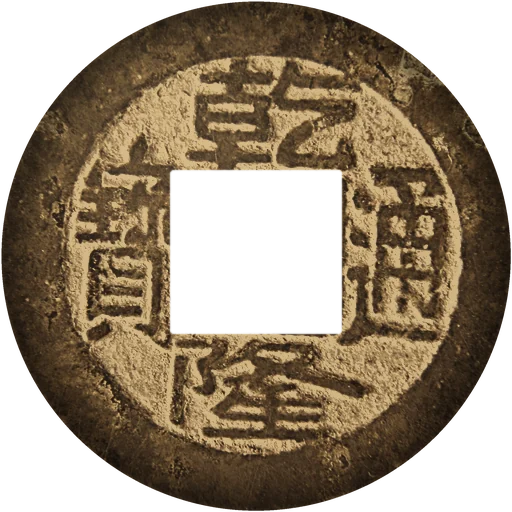
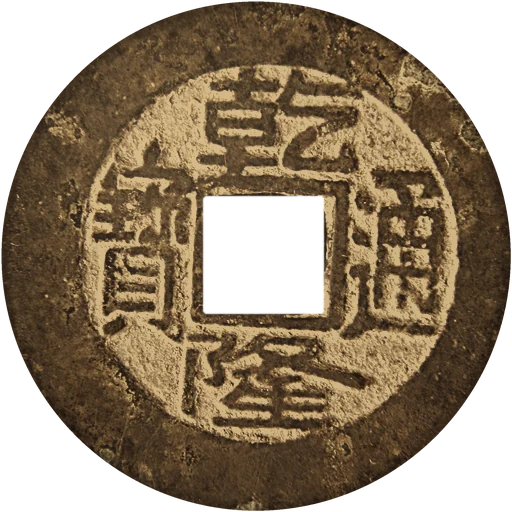
铜钱外轮廓全分辨率拟合，方孔透出桌面
- refine_outer：360 条射线找布→钱跳变点，最小二乘拟合圆心，半径取低分位数；暗角收窄
- 接触阴影中心留淡，方孔里能看到桌面

diff --git a/apps/web/src/app/globals.css b/apps/web/src/app/globals.css
@@ -138,7 +138,8 @@ body {
   left: 50%;
   top: 50%;
   border-radius: 9999px;
-  background: radial-gradient(closest-side, rgba(0, 0, 0, 0.7), rgba(0, 0, 0, 0.45) 70%, transparent 100%);
+  /* 中心留淡一些：透过方孔要能看见桌面，只是偏暗 */
+  background: radial-gradient(closest-side, rgba(0, 0, 0, 0.28) 0 20%, rgba(0, 0, 0, 0.7) 32%, rgba(0, 0, 0, 0.45) 70%, transparent 100%);
   pointer-events: none;
   will-change: transform, opacity;
 }

diff --git a/apps/web/scripts/coin-cut.py b/apps/web/scripts/coin-cut.py
@@ -84,6 +84,75 @@ def find_circle(gray, box):
     return x0 + cx, y0 + cy, r
 
 
+def fit_circle(pts):
+    """Kasa 代数最小二乘拟合圆：x²+y²+ax+by+c=0"""
+    n = len(pts)
+    sx = sum(x for x, _ in pts); sy = sum(y for _, y in pts)
+    sxx = sum(x * x for x, _ in pts); syy = sum(y * y for _, y in pts); sxy = sum(x * y for x, y in pts)
+    sxz = sum(x * (x * x + y * y) for x, y in pts); syz = sum(y * (x * x + y * y) for x, y in pts); sz = sum(x * x + y * y for x, y in pts)
+    # 解 3x3 正规方程
+    A = [[sxx, sxy, sx], [sxy, syy, sy], [sx, sy, n]]
+    B = [-sxz, -syz, -sz]
+    # 高斯消元
+    for i in range(3):
+        piv = A[i][i]
+        for j in range(i, 3):
+            A[i][j] /= piv
+        B[i] /= piv
+        for k in range(3):
+            if k != i:
+                f = A[k][i]
+                for j in range(i, 3):
+                    A[k][j] -= f * A[i][j]
+                B[k] -= f * B[i]
+    a, b, c = B
+    cx, cy = -a / 2, -b / 2
+    r = math.sqrt(max(1e-9, cx * cx + cy * cy - c))
+    return cx, cy, r
+
+
+def refine_outer(img, cx, cy, r_est):
+    """全分辨率：360 条射线从外向内找布→钱的跳变点，拟合圆并剔除离群点"""
+    g = ImageOps.grayscale(img).filter(ImageFilter.GaussianBlur(2))
+    w, h = g.size
+    px = g.load()
+    # 布的亮度：1.25~1.35r 的环带
+    ring = []
+    for k in range(120):
+        a = 2 * math.pi * k / 120
+        for f in (1.25, 1.3, 1.35):
+            x, y = int(cx + f * r_est * math.cos(a)), int(cy + f * r_est * math.sin(a))
+            if 0 <= x < w and 0 <= y < h:
+                ring.append(px[x, y])
+    fabric = sorted(ring)[len(ring) // 2]
+    th = fabric + 55
+    pts = []
+    for k in range(360):
+        a = 2 * math.pi * k / 360
+        run = 0
+        for d in range(int(r_est * 1.3), int(r_est * 0.7), -1):
+            x, y = int(cx + d * math.cos(a)), int(cy + d * math.sin(a))
+            if not (0 <= x < w and 0 <= y < h):
+                run = 0
+                continue
+            run = run + 1 if px[x, y] > th else 0
+            if run >= 18:
+                dd = d + 18
+                pts.append((cx + dd * math.cos(a), cy + dd * math.sin(a)))
+                break
+    if len(pts) < 100:
+        return cx, cy, r_est
+    fx, fy, fr = fit_circle(pts)
+    for _ in range(2):
+        res = sorted(pts, key=lambda p: abs(math.hypot(p[0] - fx, p[1] - fy) - fr))
+        pts = res[: int(len(res) * 0.8)]
+        fx, fy, fr = fit_circle(pts)
+    # 半径不用拟合值（会被光晕撑大），取各射线到圆心距离的低分位数，宁可小一点
+    dist = sorted(math.hypot(p[0] - fx, p[1] - fy) for p in pts)
+    fr = dist[int(len(dist) * 0.1)]
+    return fx, fy, fr
+
+
 def cut(img, cx, cy, r):
     r *= 1.0
     box = (int(cx - r), int(cy - r), int(cx + r), int(cy + r))
@@ -171,9 +240,9 @@ def grade(face):
     d = ImageDraw.Draw(rim)
     for k in range(40):
         t = k / 40
-        r = big / 2 * (0.86 + 0.14 * t)
-        d.ellipse((big / 2 - r, big / 2 - r, big / 2 + r, big / 2 + r), outline=int(255 * (1 - 0.55 * t)), width=int(big * 0.14 / 40) + 2)
-    rim = rim.resize((SIZE, SIZE), Image.LANCZOS).filter(ImageFilter.GaussianBlur(3))
+        r = big / 2 * (0.95 + 0.05 * t)
+        d.ellipse((big / 2 - r, big / 2 - r, big / 2 + r, big / 2 + r), outline=int(255 * (1 - 0.35 * t)), width=int(big * 0.05 / 40) + 2)
+    rim = rim.resize((SIZE, SIZE), Image.LANCZOS).filter(ImageFilter.GaussianBlur(1.5))
     dark = Image.new("RGB", (SIZE, SIZE), (0, 0, 0))
     out = Image.composite(out, dark, rim)
 
@@ -201,14 +270,12 @@ def main():
             cx, cy, r = find_circle(gray, box)
             ox, oy, k = OVERRIDES.get(f"{tag}-{side}", (0, 0, 1))
             cx, cy, r = cx * 4 + ox * r * 4, cy * 4 + oy * r * 4, r * 4 * k
-            # 铜钱是铸的，方孔才是真正的中心：按方孔位置把圆心修正过去，再裁一次
-            face, (hx, hy) = cut(img, cx, cy, r)
-            px_per = 2 * r / SIZE
-            dx, dy = (hx - SIZE / 2) * px_per, (hy - SIZE / 2) * px_per
-            face, (hx2, hy2) = cut(img, cx + dx, cy + dy, r * 0.985)
+            fx, fy, fr = refine_outer(img, cx, cy, r)
+            face, (hx, hy) = cut(img, fx, fy, fr * 0.985)
+            off = (hx - SIZE / 2, hy - SIZE / 2)
             out = os.path.join(OUT, f"{tag}-{side}.webp")
             face.save(out, "WEBP", quality=86, method=6)
-            print(f"{name} {side}: 方孔偏离圆心 ({dx:+.0f},{dy:+.0f})px 已修正，复核偏差 ({hx2-SIZE/2:+.1f},{hy2-SIZE/2:+.1f}) → {os.path.basename(out)}")
+            print(f"{name} {side}: 拟合圆心 ({fx:.0f},{fy:.0f}) 半径 {fr:.0f}（粗估 {r:.0f}）  方孔偏离 ({off[0]:+.1f},{off[1]:+.1f})/512 → {os.path.basename(out)}")
 
 
 if __name__ == "__main__":
